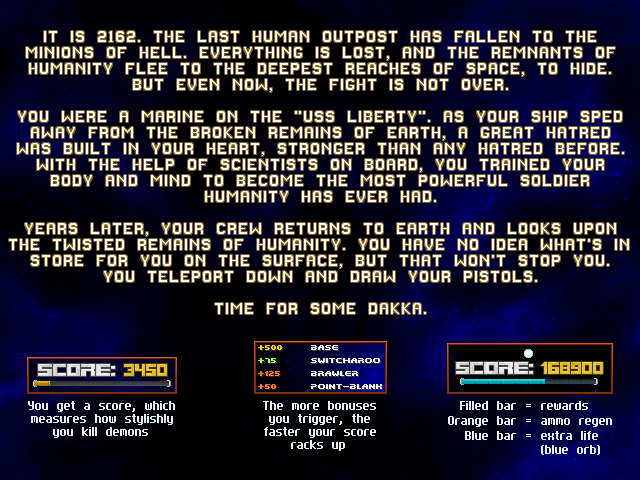
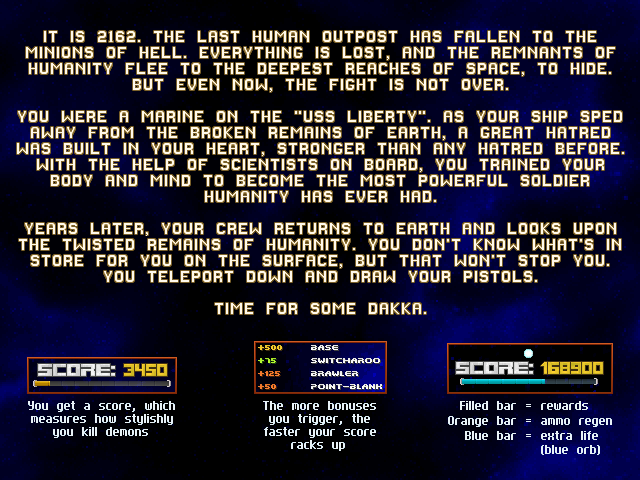
Slightly changed 'story'

Changed region(s): [[0.0, 0.4688, 1.0, 0.5312]]

diff --git a/README.md b/README.md
@@ -13,8 +13,8 @@ HATRED BEFORE. WITH THE HELP OF SCIENTISTS ON BOARD, YOU TRAINED YOUR BODY AND
 MIND TO BECOME THE MOST POWERFUL SOLDIER HUMANITY HAS EVER HAD.
 
 YEARS LATER, YOUR CREW RETURNS TO EARTH AND LOOKS UPON THE TWISTED REMAINS OF
-HUMANITY. YOU HAVE NO IDEA WHAT'S IN STORE FOR YOU ON THE SURFACE, BUT THAT
-WON'T STOP YOU. YOU TELEPORT DOWN AND DRAW YOUR PISTOLS.
+HUMANITY. YOU DON'T KNOW WHAT'S IN STORE FOR YOU ON THE SURFACE, BUT THAT WON'T
+STOP YOU. YOU TELEPORT DOWN AND DRAW YOUR PISTOLS.
 
 TIME FOR SOME DAKKA.
 ```
